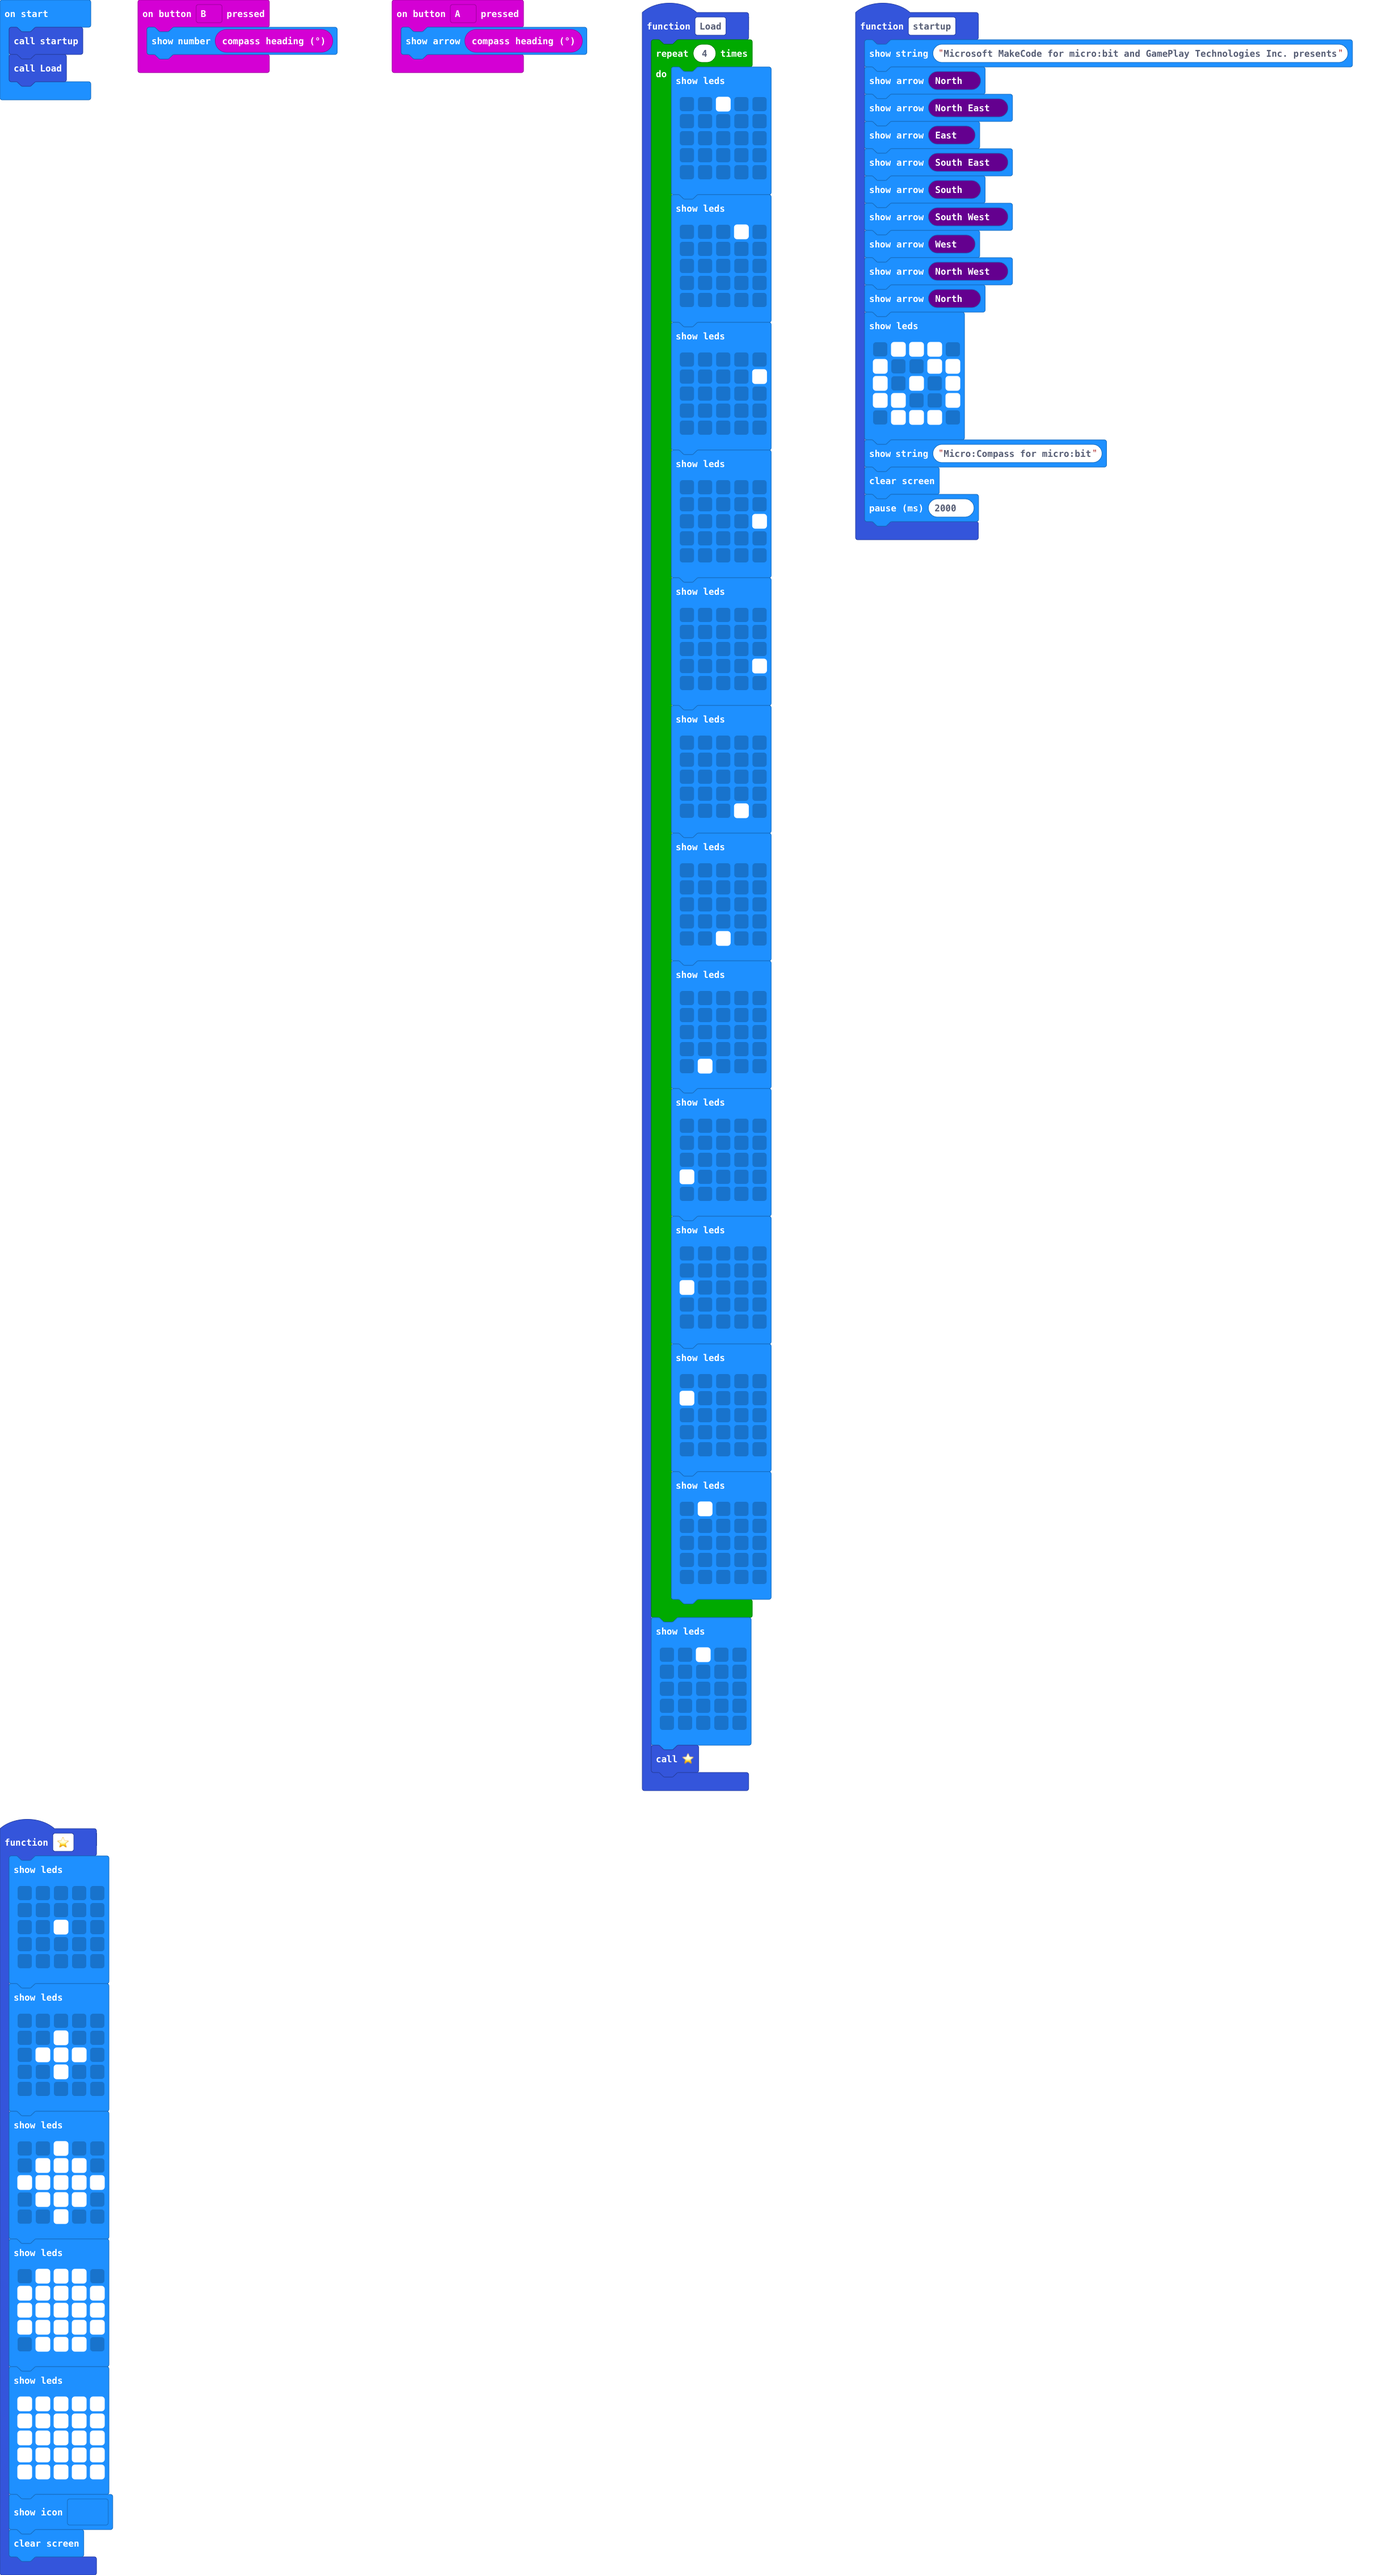
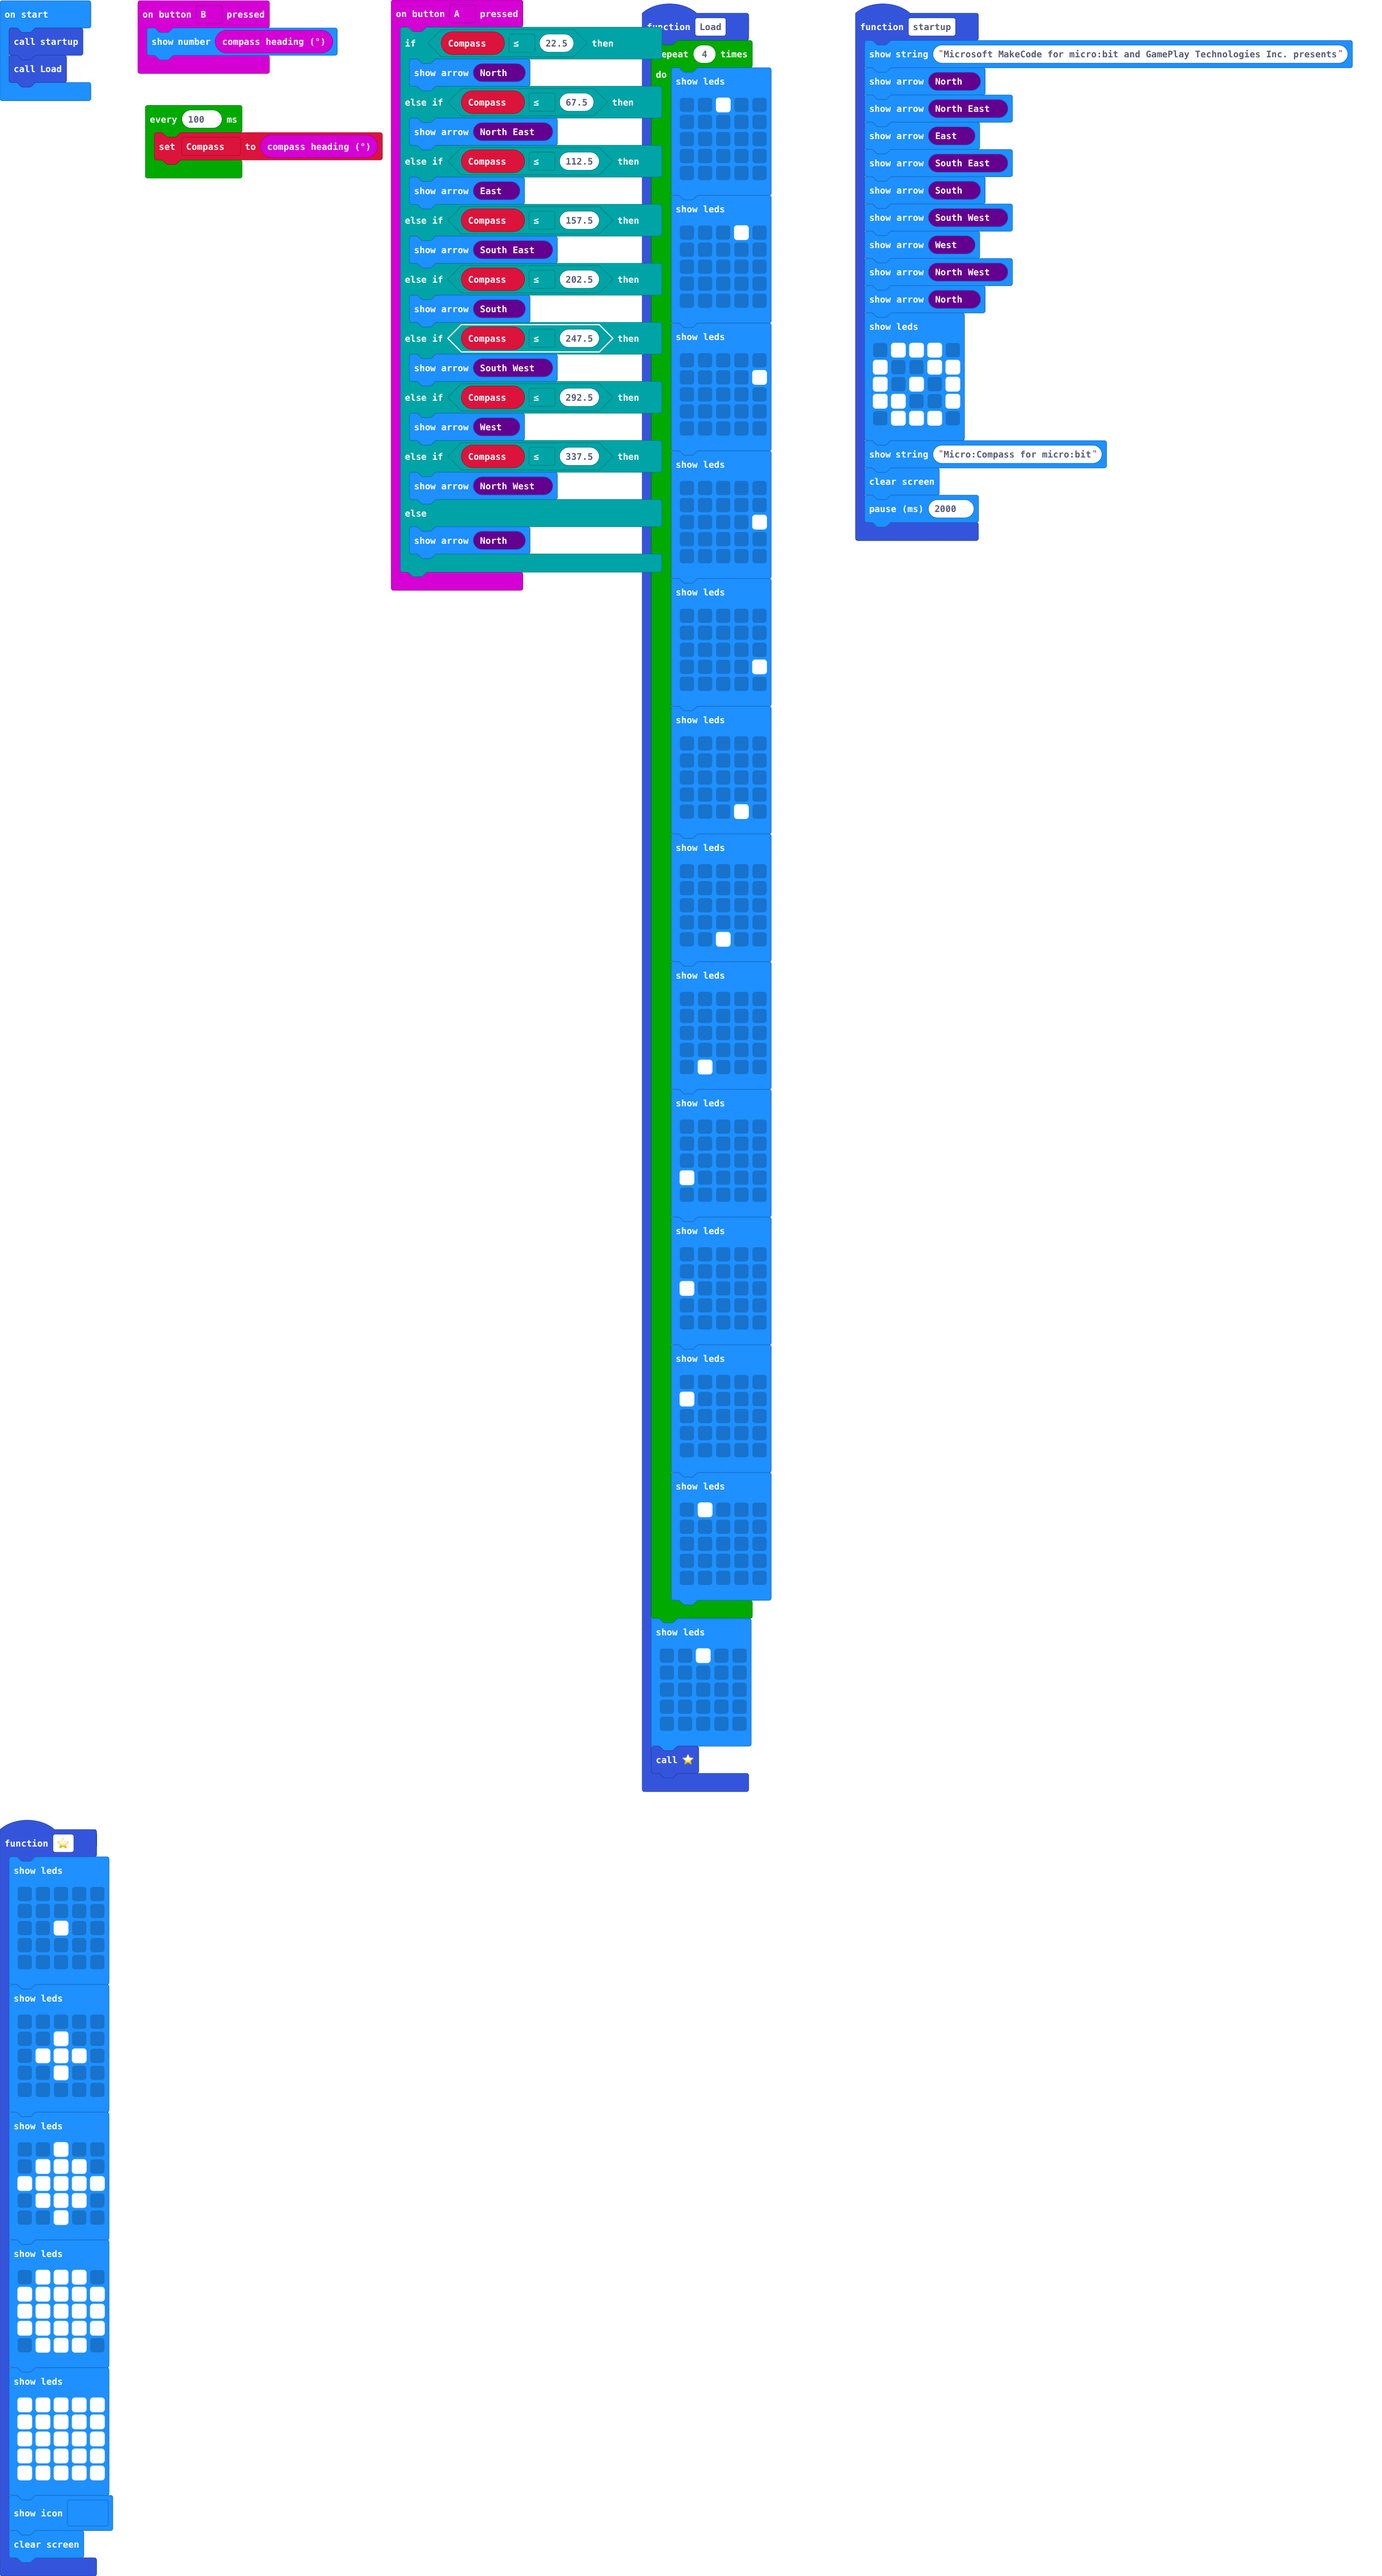
Code changed to make code operational

diff --git a/main.ts b/main.ts
@@ -95,7 +95,25 @@ function Load () {
     _()
 }
 input.onButtonPressed(Button.A, function () {
-    basic.showArrow(input.compassHeading())
+    if (Compass <= 22.5) {
+        basic.showArrow(ArrowNames.North)
+    } else if (Compass <= 67.5) {
+        basic.showArrow(ArrowNames.NorthEast)
+    } else if (Compass <= 112.5) {
+        basic.showArrow(ArrowNames.East)
+    } else if (Compass <= 157.5) {
+        basic.showArrow(ArrowNames.SouthEast)
+    } else if (Compass <= 202.5) {
+        basic.showArrow(ArrowNames.South)
+    } else if (Compass <= 247.5) {
+        basic.showArrow(ArrowNames.SouthWest)
+    } else if (Compass <= 292.5) {
+        basic.showArrow(ArrowNames.West)
+    } else if (Compass <= 337.5) {
+        basic.showArrow(ArrowNames.NorthWest)
+    } else {
+        basic.showArrow(ArrowNames.North)
+    }
 })
 function startup () {
     basic.showString("Microsoft MakeCode for micro:bit and GamePlay Technologies Inc. presents")
@@ -161,5 +179,9 @@ function _ () {
     basic.showIcon(IconNames.Yes)
     basic.clearScreen()
 }
+let Compass = 0
 startup()
 Load()
+loops.everyInterval(100, function () {
+    Compass = input.compassHeading()
+})
